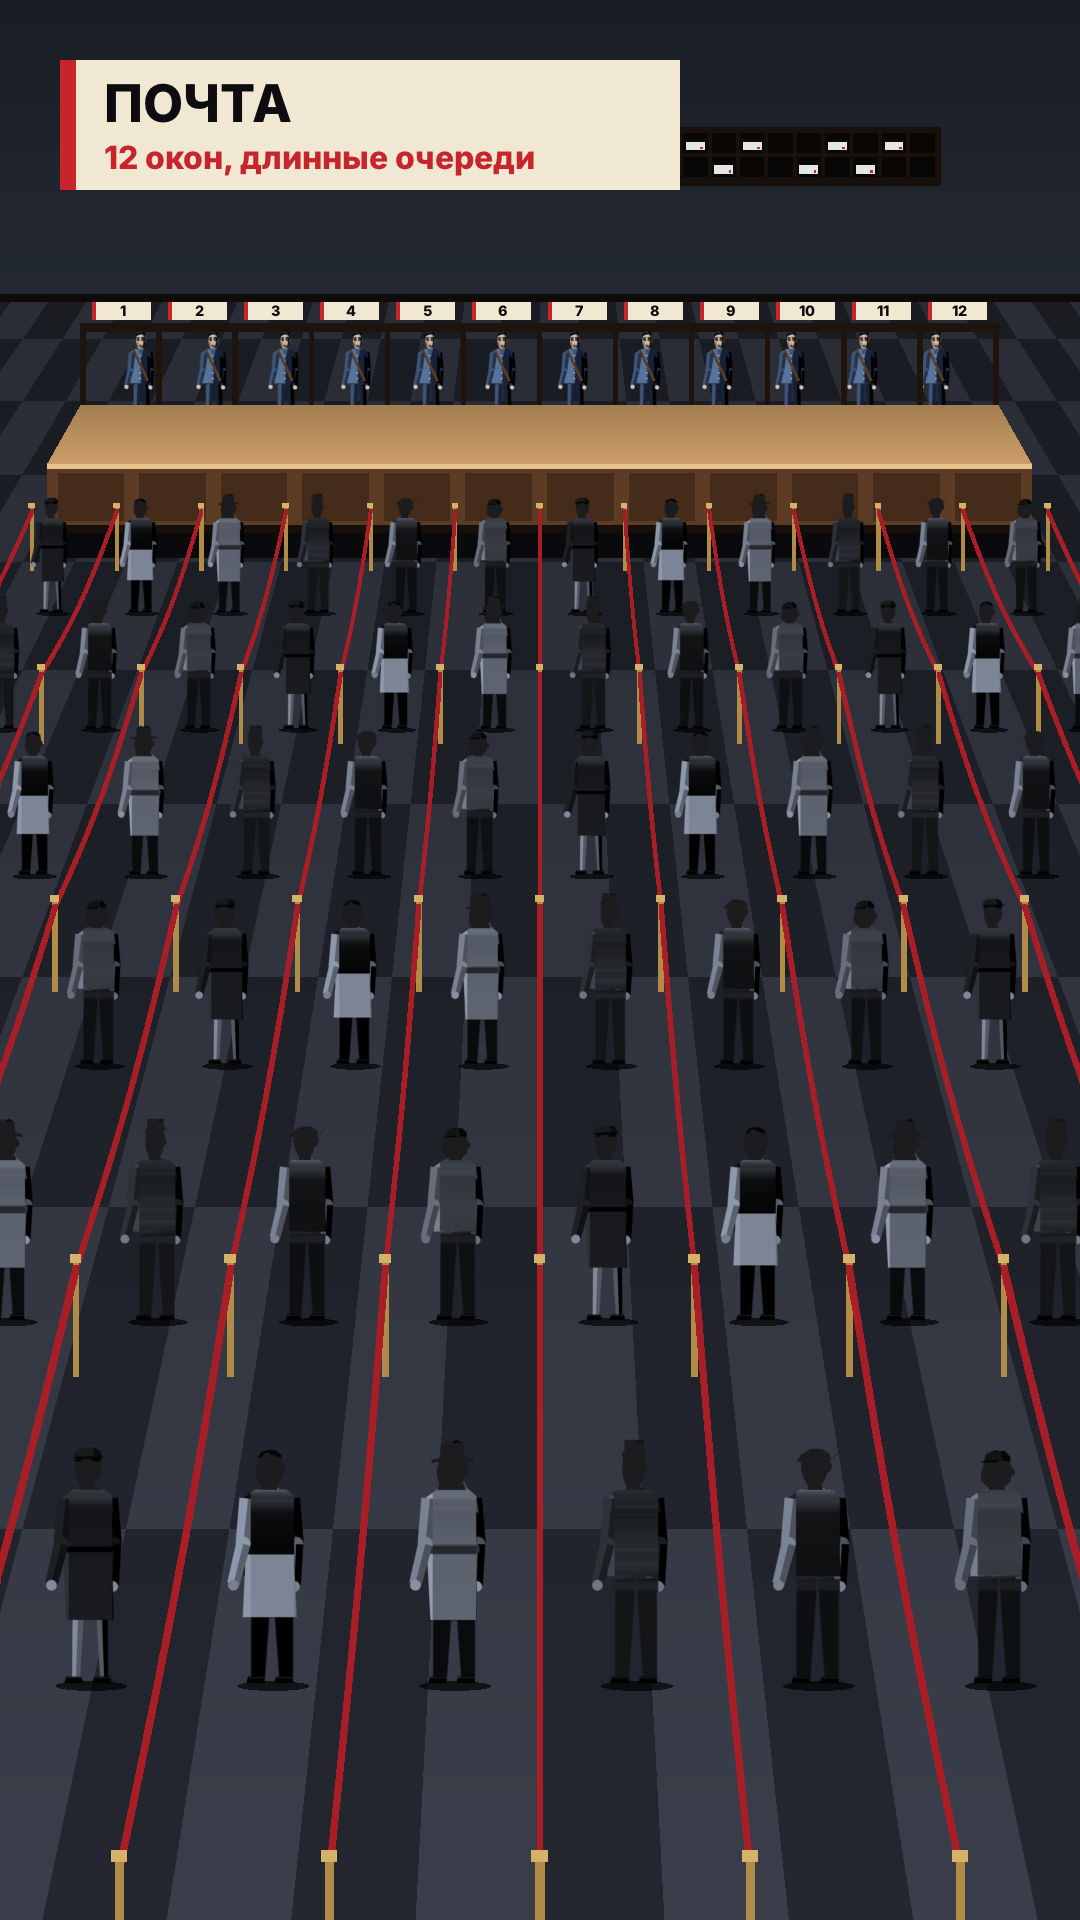
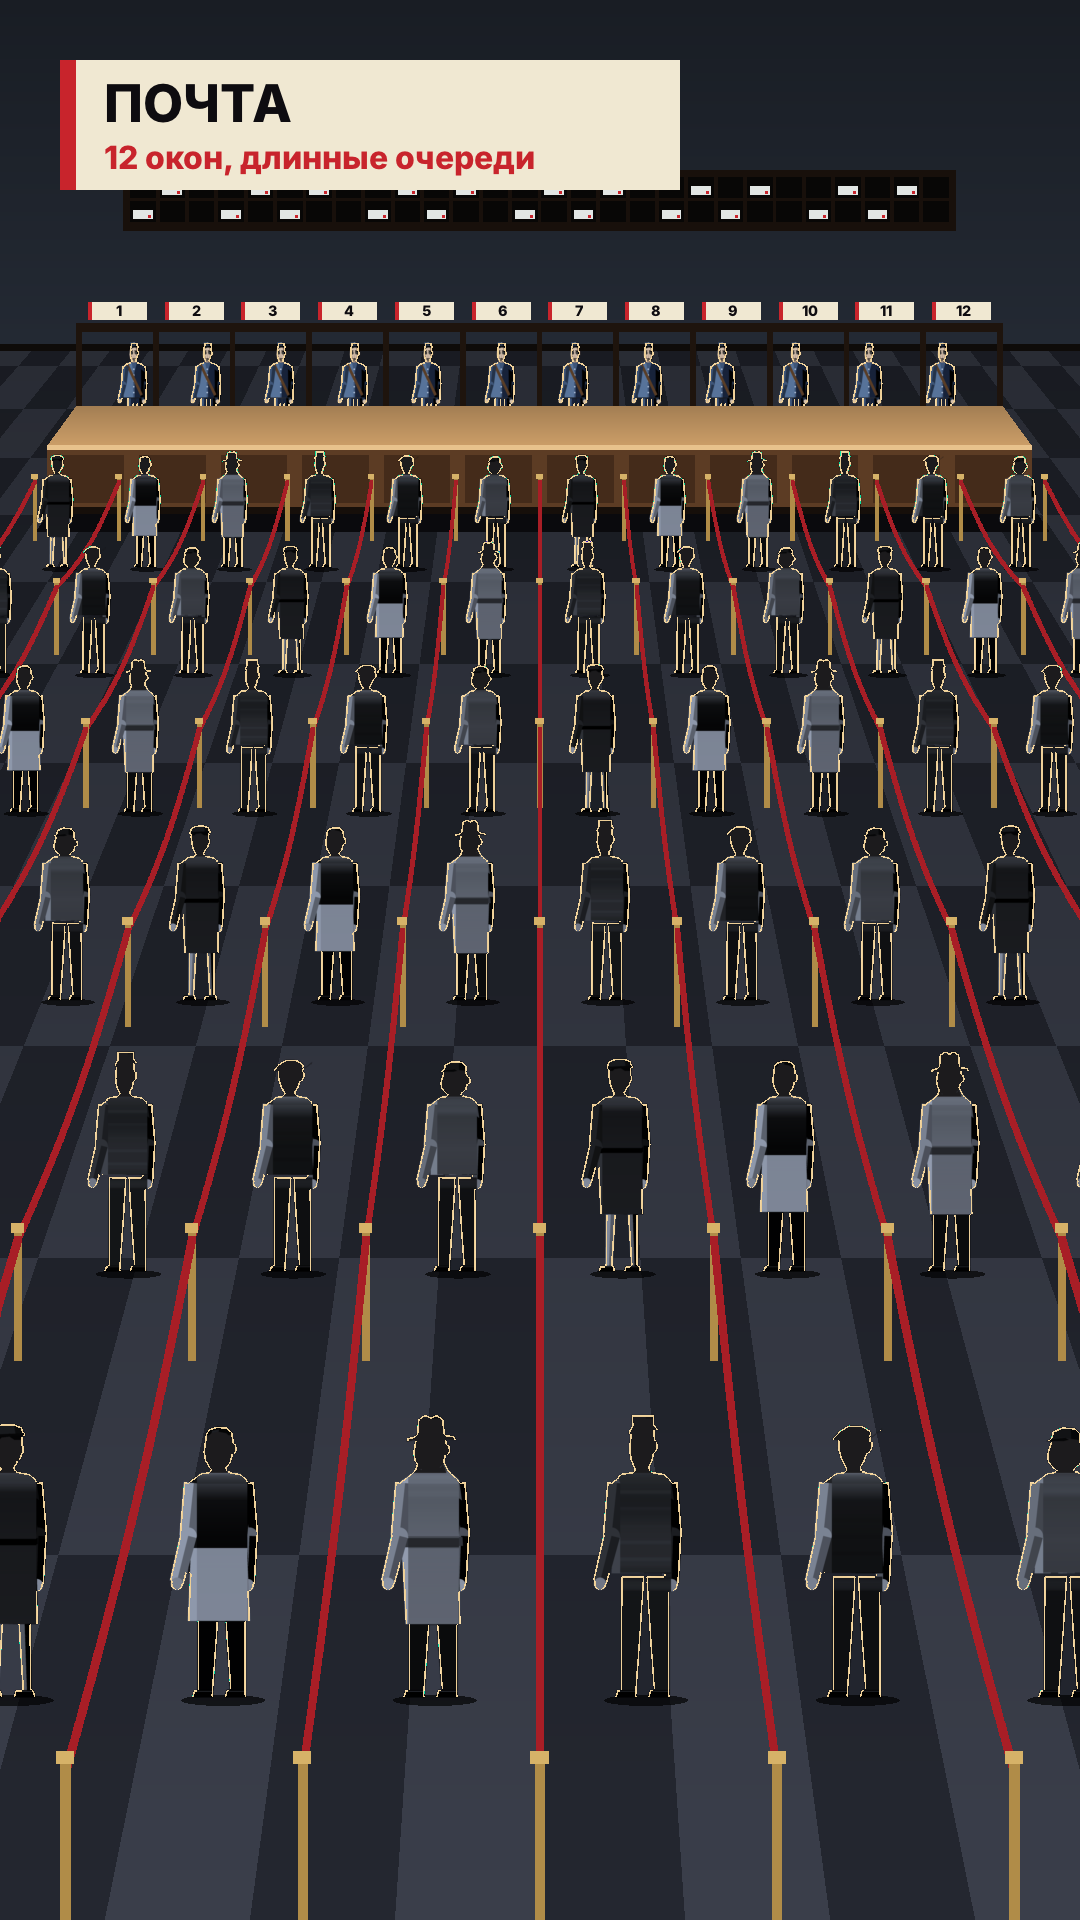
[maket-engine] Design: people in a queue stand a metre apart, ropes pass behind and in front of them, figures get a light outline

diff --git a/docs/design/rooms.md b/docs/design/rooms.md
@@ -64,6 +64,9 @@
 - Очередь всегда стоит спиной к зрителю, лицом к своему окну. Первый — у окна, хвост — к зрителю.
 - Каждое окно — отдельная дорожка: латунные столбики с красным канатом от стойки к зрителю. Видно, какая очередь к какому окну.
 - Над окном табличка с номером. Если она меньше 11 пикселей, номер не пишется.
+- В очереди между людьми метр. Камера стоит так высоко, что голова заднего видна над плечами переднего: каждый человек виден целиком.
+- Люди и канаты рисуются по глубине вместе. Канат уходит за человека, который стоит ближе, и проходит перед тем, кто дальше.
+- У каждой фигуры тонкий светлый контур, как от ламп над окнами. Тёмные спины не сливаются друг с другом и с полом.
 
 ## Пробные кадры
 
@@ -80,5 +83,6 @@
 ## Ограничения
 
 - При 48 окнах люди в дальнем ряду ростом около 70 пикселей, номера на дальних рядах не пишутся.
+- При 12 окнах крайние очереди у нижнего края кадра выходят за него наполовину: дорожки расходятся в перспективе.
 - Камера смотрит сверху, а спрайты нарисованы на уровне глаз. На кадрах это не мешает, но это заметно.
 - Первый шаг — только `post`. Холл с крючками, вход с канатом и банк собираются из тех же частей, это следующие шаги.
